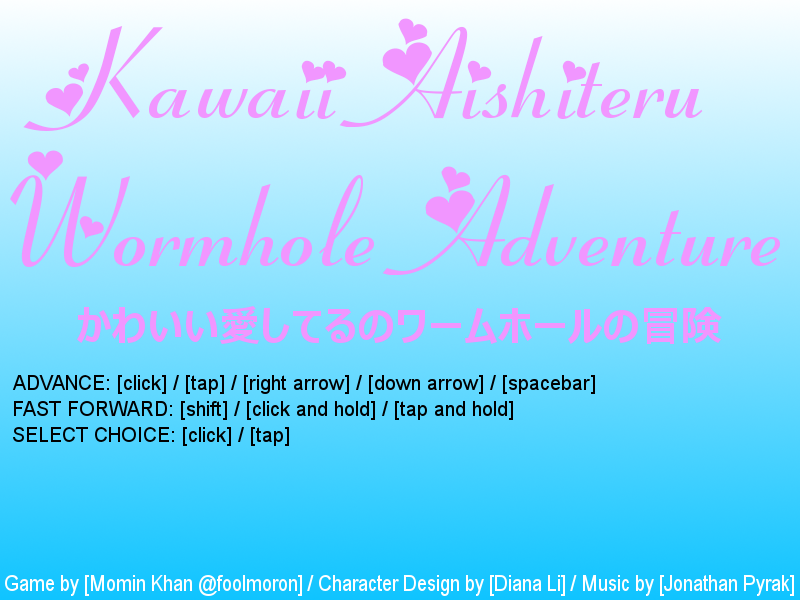
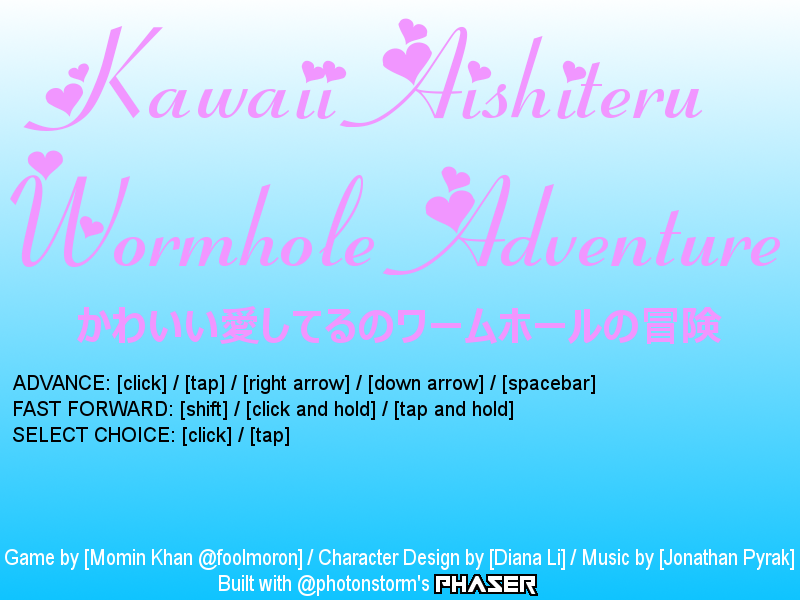
New start screen with attribution

Changed region(s): [[0.0, 0.9, 1.0, 1.0]]

diff --git a/game/main.js b/game/main.js
@@ -86,15 +86,15 @@ window.onload = function() {
 			return;
 		}
 
-		var text = this.add.text(this.world.centerX, this.world.height - 90, "Click or tap to start!", {font:"50px Droid Sans Mono", fill: "#000", align: "center"});
+		var text = this.add.text(this.world.centerX, this.world.height - 110, "Click or tap to start!", {font:"50px Droid Sans Mono", fill: "#000", align: "center"});
         text.anchor.setTo(0.5);
-        var star1 = this.add.sprite(38, this.world.height - 90, 'star');
+        var star1 = this.add.sprite(38, this.world.height - 110, 'star');
         star1.anchor.setTo(0.5);
         this.add.tween(star1)
             .to({angle: 180}, 1500, Phaser.Easing.Back.InOut, true, 0, Number.MAX_VALUE, true);
         this.add.tween(star1.scale)
             .to({x: 2, y: 2}, 600, Phaser.Easing.Linear.None, true, 0, Number.MAX_VALUE, true);
-        var star2 = this.add.sprite(762, this.world.height - 90, 'star');
+        var star2 = this.add.sprite(762, this.world.height - 110, 'star');
         star2.anchor.setTo(0.5);
         star2.angle = 180;
         this.add.tween(star2)
